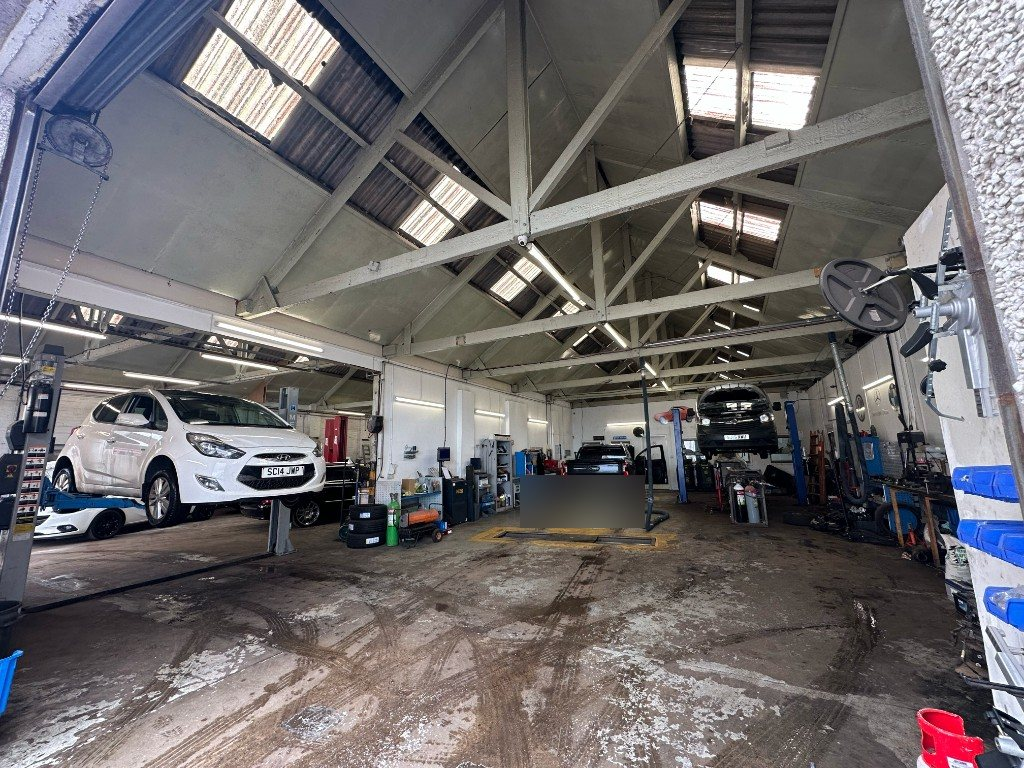
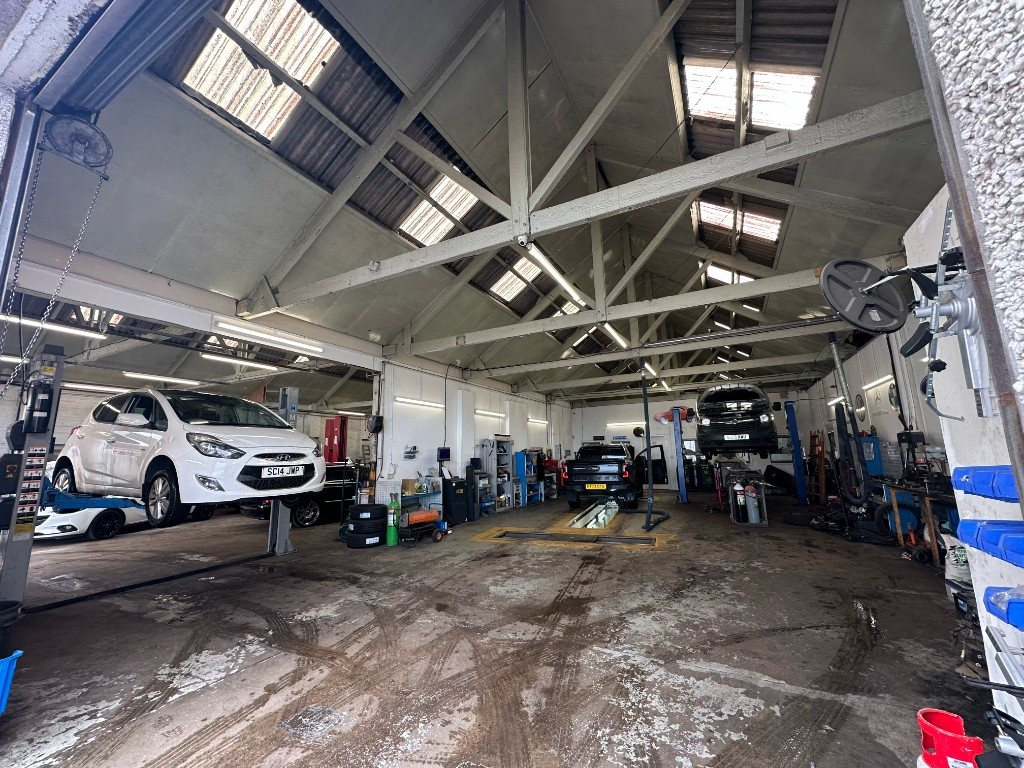
Show workshop photos unblurred so plates and job sheets stay visible.

Changed region(s): [[0.5, 0.5938, 0.6562, 0.6875]]

diff --git a/scripts/install-workshop-photos.py b/scripts/install-workshop-photos.py
@@ -3,7 +3,7 @@ from __future__ import annotations
 
 from pathlib import Path
 
-from PIL import Image, ImageFilter
+from PIL import Image
 
 ASSETS = Path(
     "/Users/jeremiewarner/.cursor/projects/Users-jeremiewarner-bankside-mot-website/assets"
@@ -16,18 +16,6 @@ def find(prefix: str) -> Path:
     if not matches:
         raise FileNotFoundError(prefix)
     return matches[0]
-
-
-def blur_box(im: Image.Image, box: tuple[int, int, int, int], radius: int = 14) -> None:
-    left, top, right, bottom = box
-    left = max(0, left)
-    top = max(0, top)
-    right = min(im.width, right)
-    bottom = min(im.height, bottom)
-    if right - left < 4 or bottom - top < 4:
-        return
-    region = im.crop((left, top, right, bottom)).filter(ImageFilter.GaussianBlur(radius=radius))
-    im.paste(region, (left, top))
 
 
 def save(im: Image.Image, name: str) -> None:
@@ -48,43 +36,21 @@ def load(prefix: str) -> Image.Image:
 
 OUT.mkdir(parents=True, exist_ok=True)
 
-hero = load("IMG_9128")
-blur_box(hero, (520, 475, 645, 528), radius=22)
-save(hero, "hero-workshop.jpg")
-
+save(load("IMG_9128"), "hero-workshop.jpg")
 save(load("IMG_9155"), "about-workshop.jpg")
-
-mot = load("IMG_9158")
-blur_box(mot, (500, 430, 700, 640), radius=18)  # job sheet / VRM on clipboard
-save(mot, "service-mot.jpg")
-
-class7 = load("IMG_9100")
-blur_box(class7, (670, 418, 805, 478), radius=18)
-save(class7, "service-class7.jpg")
-
+save(load("IMG_9158"), "service-mot.jpg")
+save(load("IMG_9100"), "service-class7.jpg")
 save(load("IMG_9113"), "service-servicing.jpg")
 save(load("IMG_9109"), "service-diagnostics.jpg")
 save(load("IMG_9116"), "service-alignment.jpg")
-
 save(load("IMG_9157"), "team-band.jpg")
-
 save(load("IMG_9154"), "waiting-lounge.jpg")
-
-# Batch 2 — unique slots (do not reuse the old brake still twice)
 save(load("IMG_9138"), "workshop-repairs.jpg")
 save(load("IMG_9136"), "service-major.jpg")
 save(load("IMG_9145"), "brake-before.jpg")
 save(load("IMG_9159"), "brake-after.jpg")
-
-aircon = load("IMG_9163")
-blur_box(aircon, (475, 508, 665, 590), radius=18)  # Hyundai SC14 JWP
-save(aircon, "service-aircon.jpg")
-
-exterior = load("IMG_9130")
-blur_box(exterior, (300, 512, 380, 545), radius=18)  # grey van G8 VNN
-blur_box(exterior, (868, 545, 990, 608), radius=18)  # blue hatchback rear plate
-blur_box(exterior, (88, 508, 158, 542), radius=16)  # black Mercedes front plate
-save(exterior, "exterior.jpg")
+save(load("IMG_9163"), "service-aircon.jpg")
+save(load("IMG_9130"), "exterior.jpg")
 
 for leftover in OUT.glob("_*.jpg"):
     leftover.unlink()
